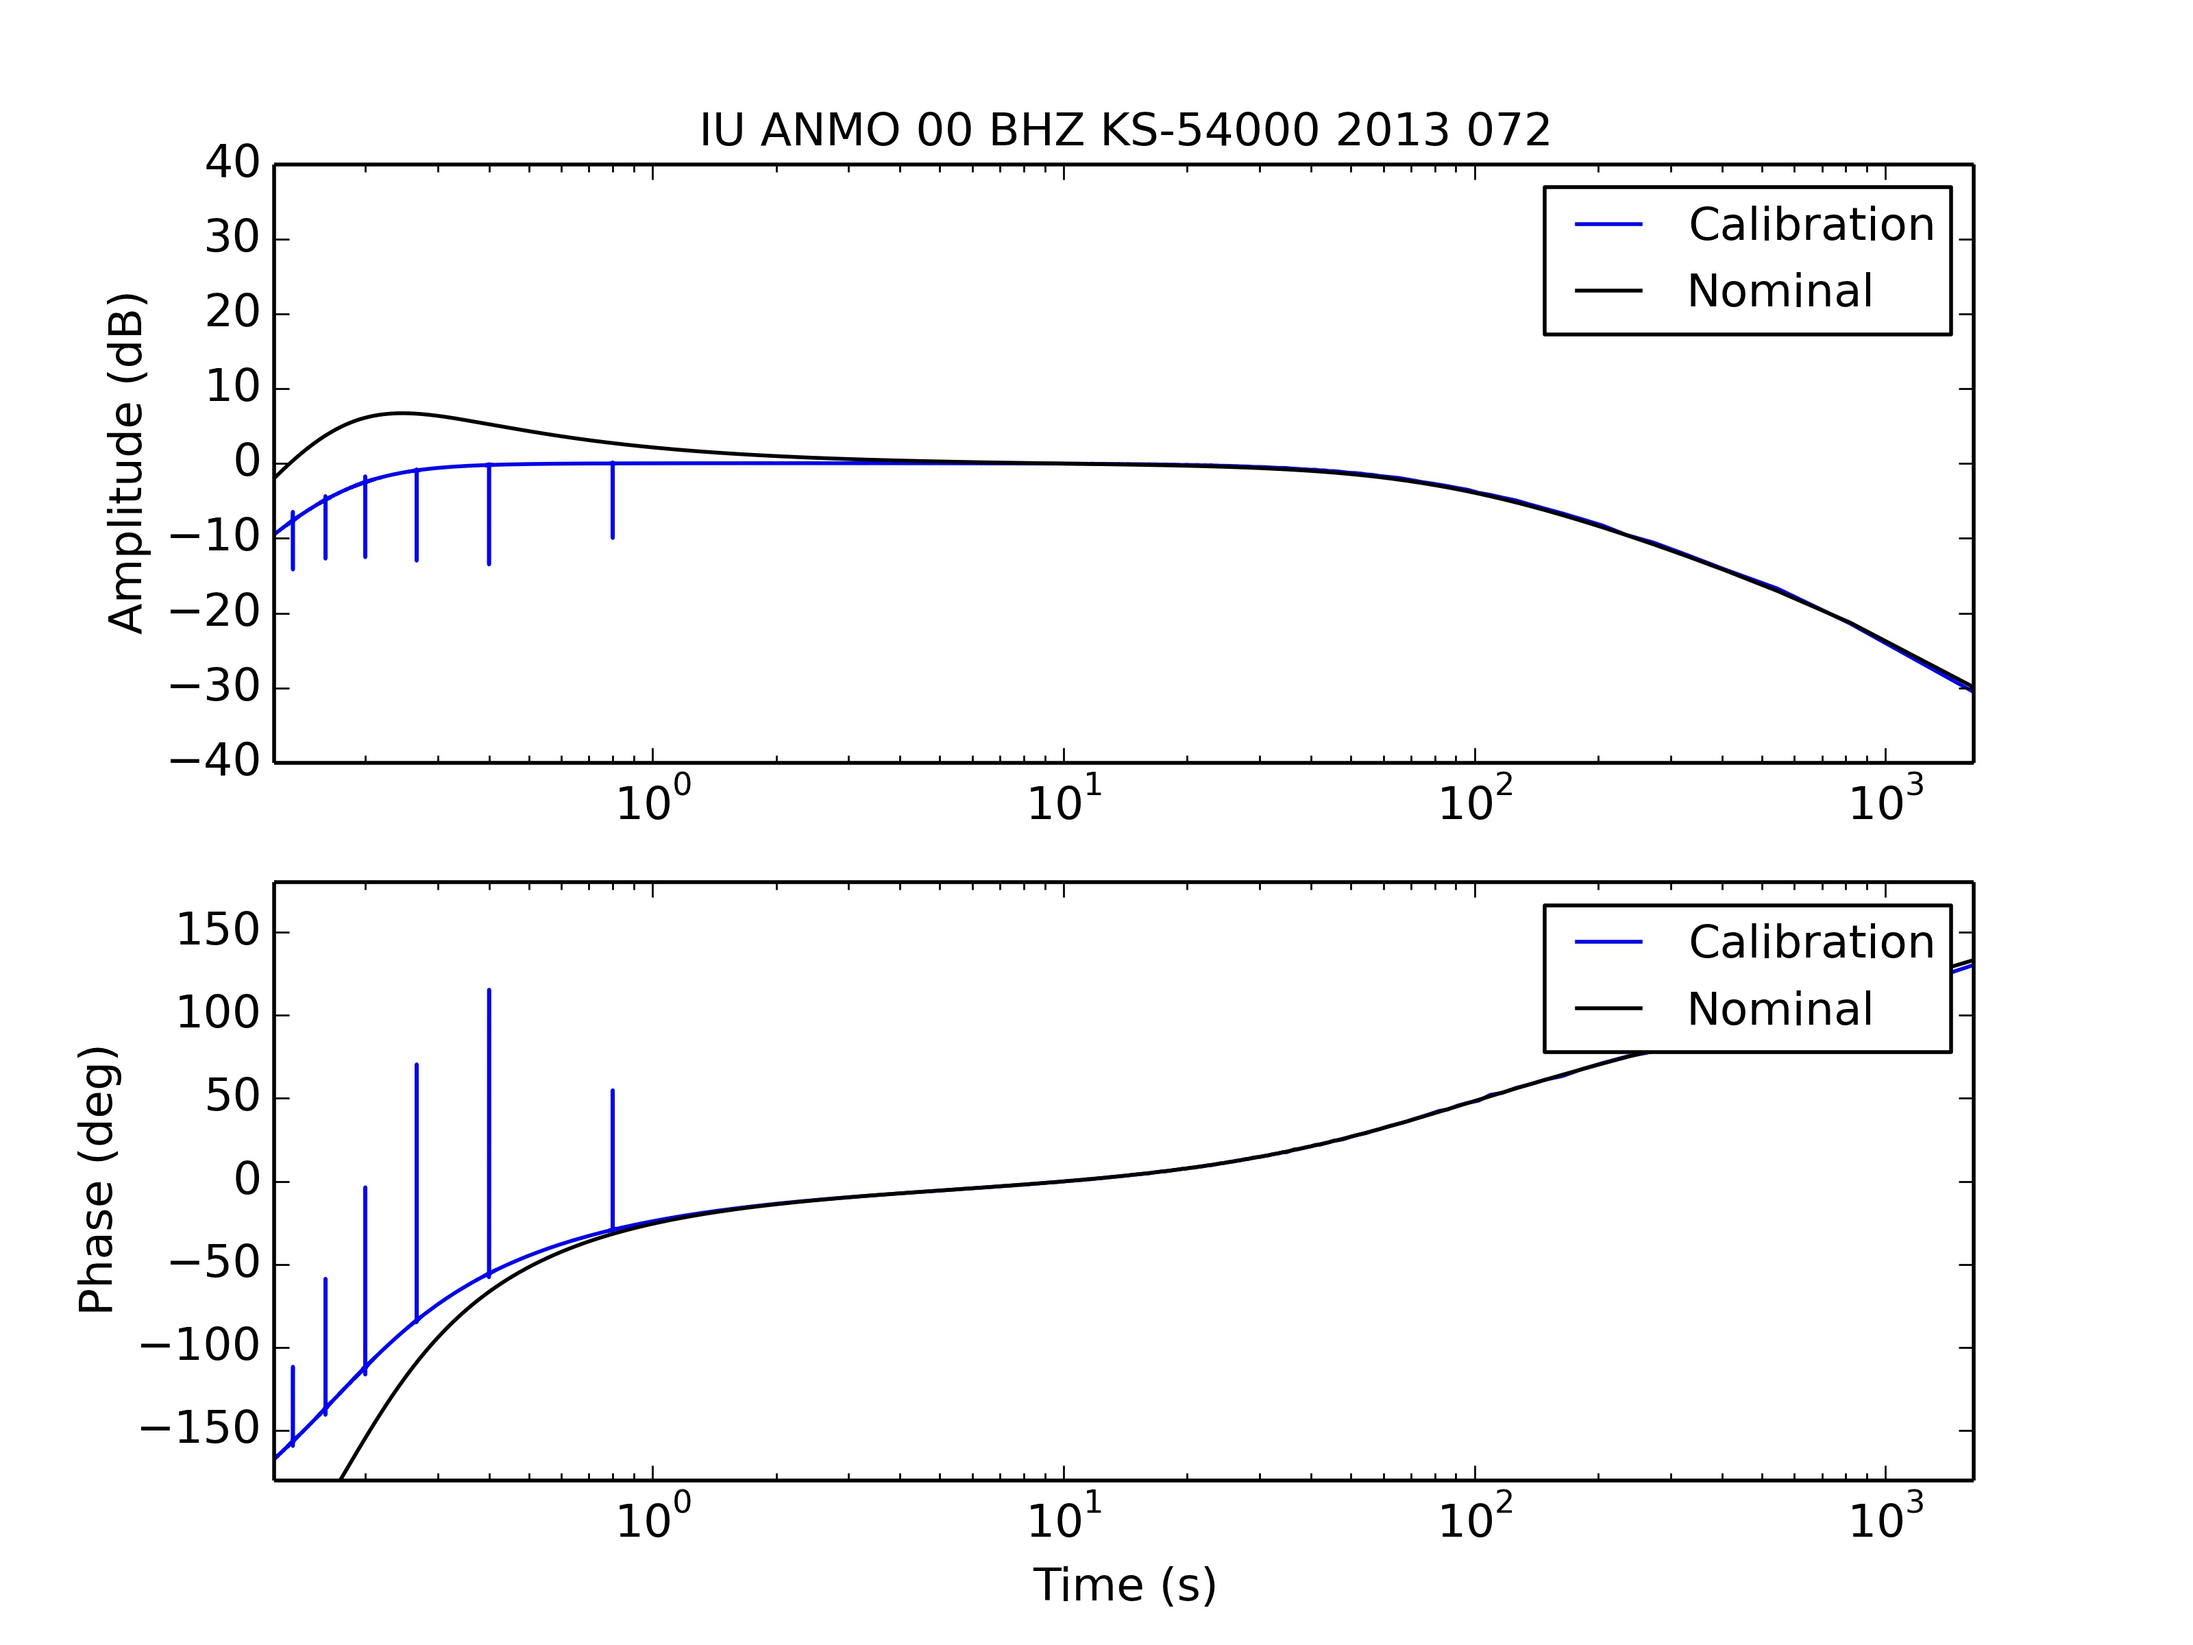
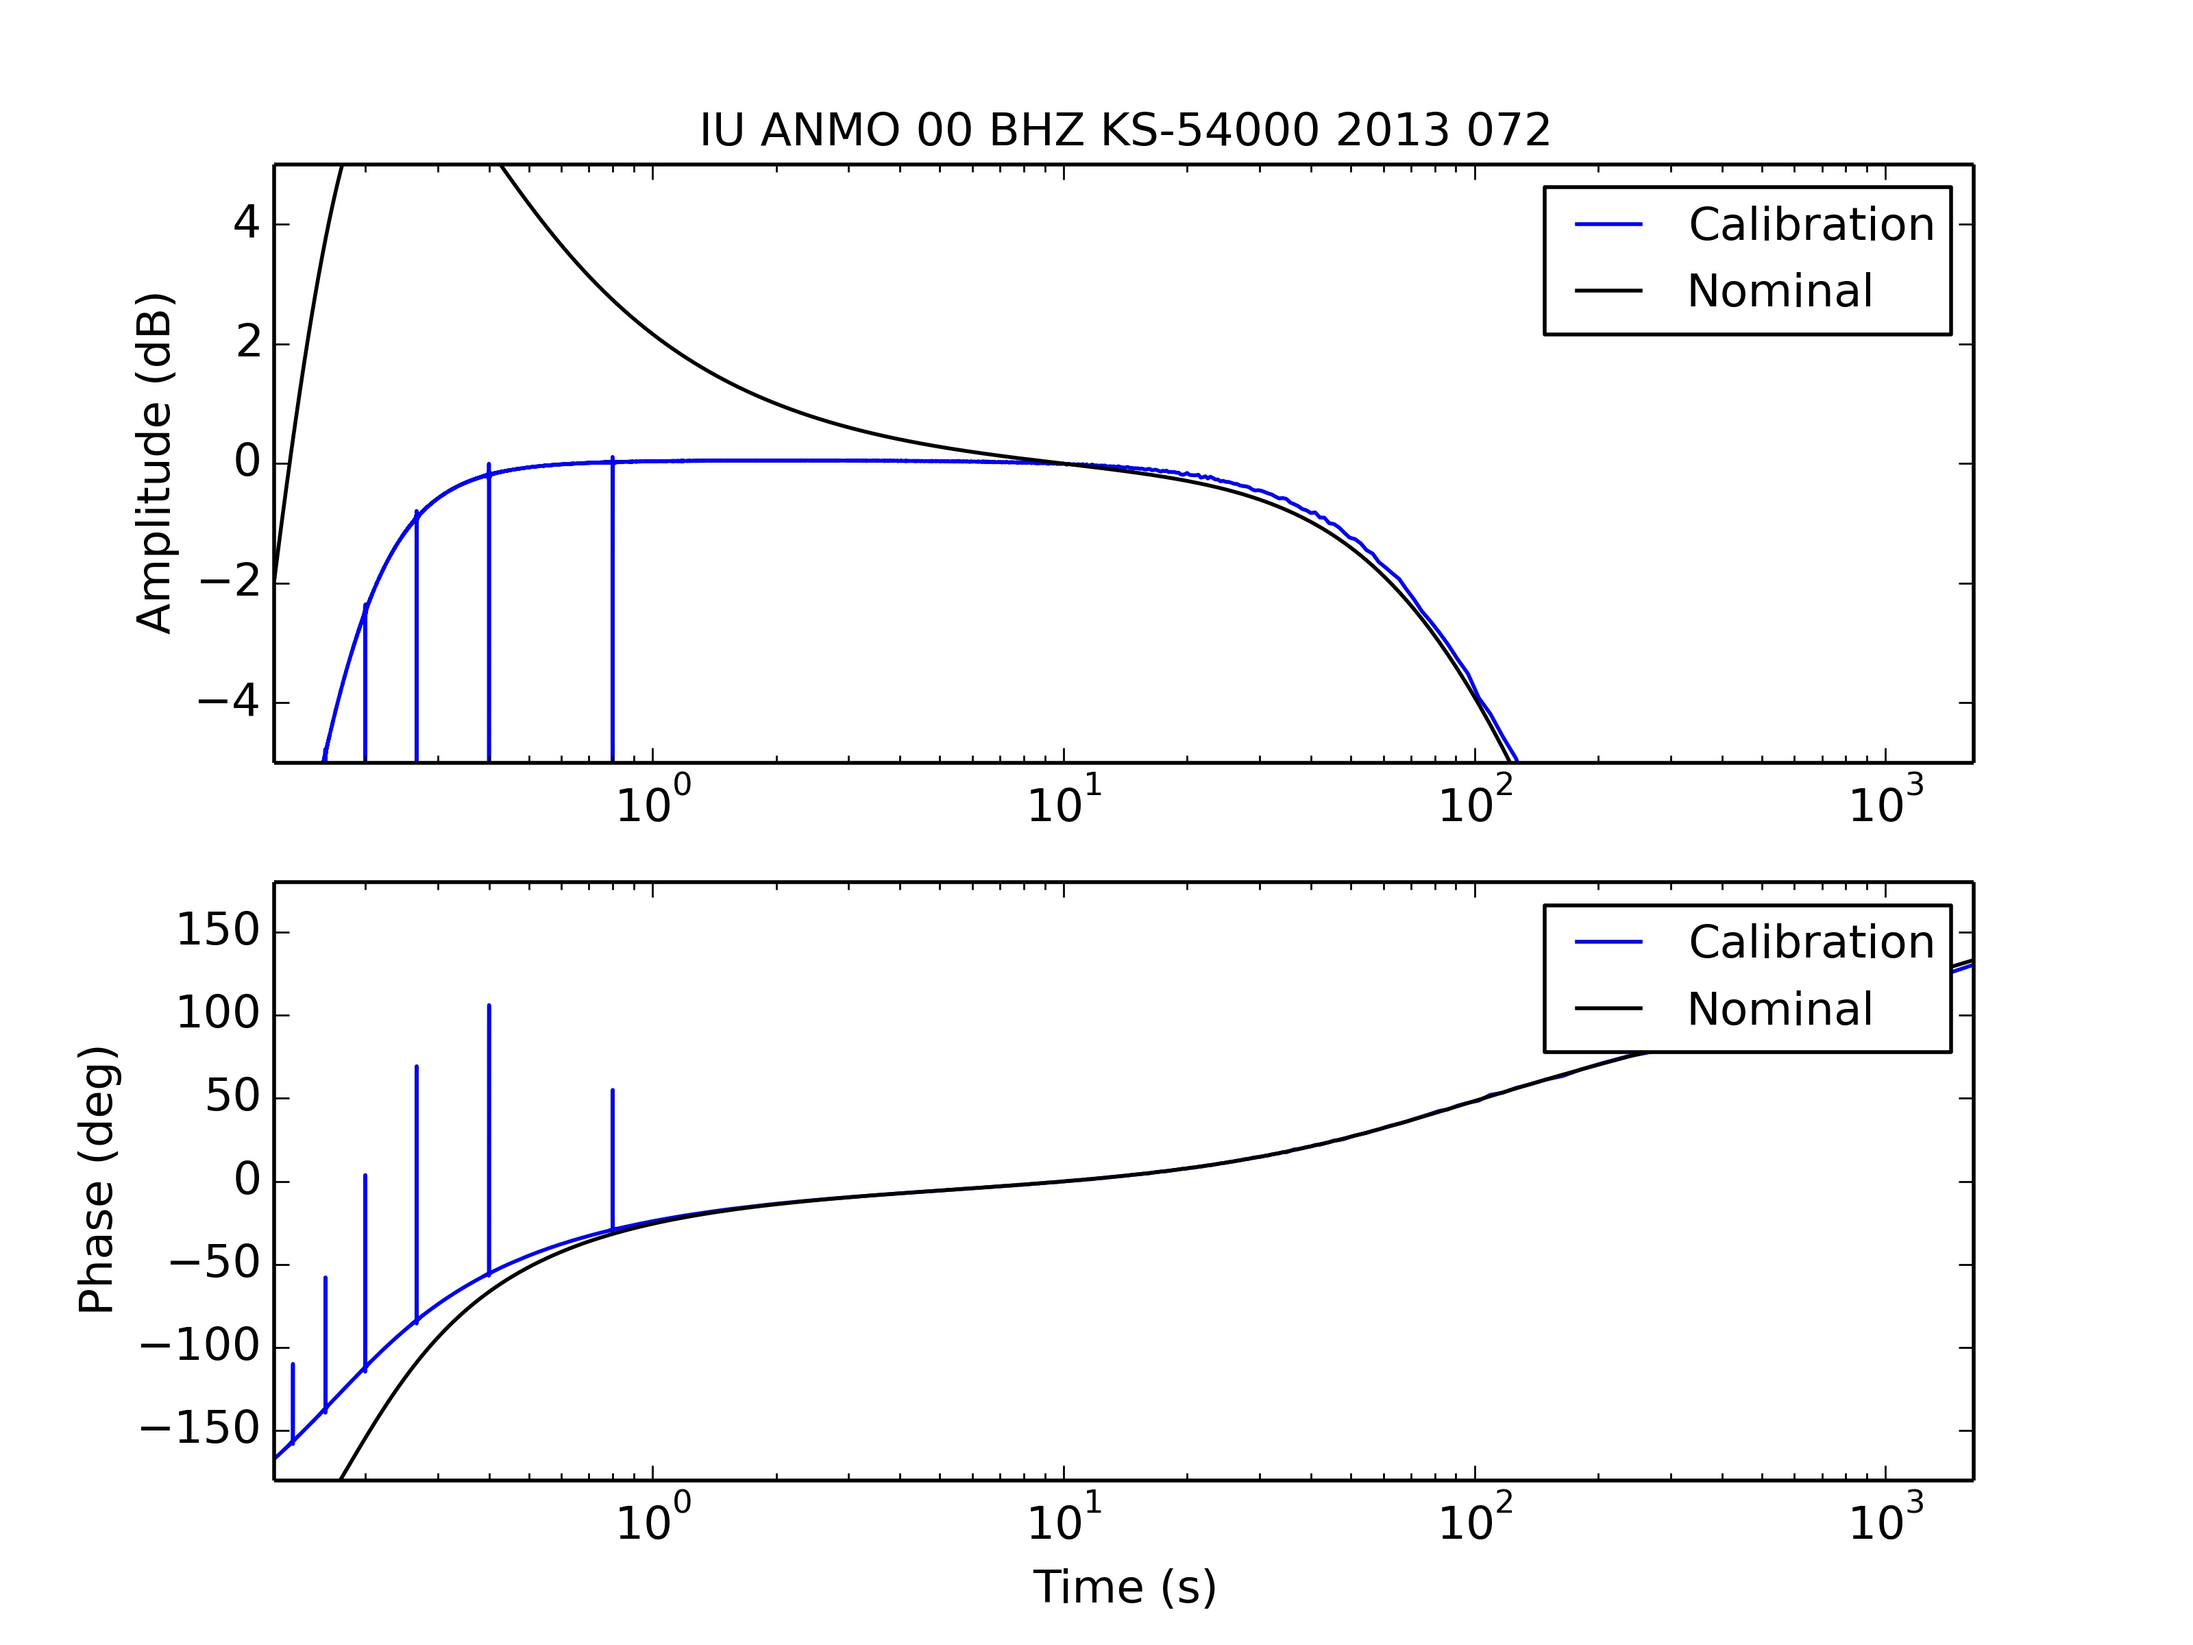
I added calibration blockette detection

diff --git a/randcal/calcomp.py b/randcal/calcomp.py
@@ -3,7 +3,9 @@
 import argparse
 import sys
 import math
-
+import struct
+import os
+import stat
 
 import numpy
 import matplotlib.mlab
@@ -61,14 +63,60 @@ def getcmdline():
 		default = False, help="Allows for a capacitive calibration")
 
 	parser.add_argument('-st','--starttime',type = str, action = "store", dest = "stime", \
-		default = '', help="Start time of calibration: YYYY-MM-DDTHH:MM:SS.S", required = True)
+		default = '', help="Start time of calibration: YYYY-MM-DDTHH:MM:SS.S", required = False)
 
 	parser.add_argument('-d','--duration', type = int, action = "store", dest = "duration", \
-		default = 0, help="Duration of cal in seconds", required = True)
+		default = 0, help="Duration of cal in seconds", required = False)
+
+	parser.add_argument('-cb',action = "store_true",dest = "calblock", \
+		default = False, help="Use calibration blockette time")
 
 	parserval = parser.parse_args()
 
 	return parserval
+
+def get_calibrations(file_name):
+	calibrations = []
+
+	#Read the first file and get the record length from blockette 1000
+	fh = open(file_name, 'rb')
+	record = fh.read(256)
+	index = struct.unpack('>H', record[46:48])[0]
+	file_stats = os.stat(file_name)
+	record_length = 2 ** struct.unpack('>B', record[index+6:index+7])[0]
+	
+	#Get the total number of records
+	total_records = file_stats[stat.ST_SIZE] / record_length
+	
+	#Now loop through the records and look for calibration blockettes
+	for rec_idx in xrange(0,total_records):
+		fh.seek(rec_idx * record_length,0)
+		record = fh.read(record_length)
+		next_blockette = struct.unpack('>H', record[46:48])[0]
+		while next_blockette != 0:
+			index = next_blockette
+			blockette_type, next_blockette = struct.unpack('>HH', record[index:index+4])	
+			if blockette_type in (300, 310, 320, 390):
+				if debug:
+					print 'We have a calibration blockette'
+				year,jday,hour,minute,sec,_,tmsec,_,cal_flags,duration = tuple(struct.unpack('>HHBBBBHBBL', record[index+4:index+20]))
+				stime = UTCDateTime(year=year,julday=jday,hour=hour,minute=minute,second=sec)
+				if debug:
+					print(stime.ctime())
+				if blockette_type == 300:
+					step_count,_,_,ntrvl_duration,amplitude,cal_input = struct.unpack('>BBLLf3s', record[index+14:index+31])
+					calibrations.append({'type':'step','amplitude': amplitude,'number':step_count,'start_time':stime,'duration':duration/10000,'inteveral_duration':ntrvl_duration})
+				if blockette_type == 310:
+					signal_period,amplitude,cal_input = struct.unpack('>ff3s', record[index+20:index+31])
+					calibrations.append({'type':'sine','amplitude': amplitude, 'period': signal_period,'start_time':stime,'duration':duration/10000})
+				if blockette_type in (320, 390):
+					amplitude,cal_input = struct.unpack('>f3s', record[index+20:index+27])
+					calibrations.append({'type':'random','amplitude': amplitude,'start_time':stime,'duration':duration/10000})
+	fh.close()
+	return calibrations
+
+
+
 
 def getdata(dataloc,starttime,endtime):
 #A function to read in the data and trim it down
@@ -201,84 +249,101 @@ def respToFAP(resp,norm):
 
 #Here is where we start the program
 
-#Run the command line parser
-parserval = getcmdline()
+if __name__ == "__main__":
 
-#User input variables
-debug = parserval.debug
+	#Run the command line parser
+	parserval = getcmdline()
 
-#Here are the start and end times
-stime = UTCDateTime(parserval.stime)
-etime = stime + parserval.duration
+	#User input variables
+	debug = parserval.debug
+	
+	if parserval.calblock:
+		calibrations = get_calibrations(parserval.outputData)
+		found_cal = False
+		for cals in calibrations:
+			if cals['type'] == 'random':
+				stime = cals['start_time']
+				etime = stime + cals['duration']
+				found_cal = True
+		if not found_cal:
+			print 'Unable to find calibration blockette'
+			sys.exit()
+	else:	
+	#Here are the start and end times
+		try:
+			stime = UTCDateTime(parserval.stime)
+			etime = stime + parserval.duration
+		except:
+			print 'Unable to get start time'
+			sys.exit()
 
+	#Read in the data
+	tracein = getdata(parserval.inputData,stime,etime)
+	traceout = getdata(parserval.outputData,stime,etime)
 
-#Read in the data
-tracein = getdata(parserval.inputData,stime,etime)
-traceout = getdata(parserval.outputData,stime,etime)
-
-#Lets compute the power spectra
-pinpout, fre = getcpow(tracein,traceout)
-pout, fre = getcpow(traceout, traceout)
-pin, fre = getcpow(tracein, tracein)
-
-
-period = 1/fre
-#Lets find the normalization index
-indexNormPeriod = numpy.argmin(numpy.abs(period - parserval.normPeriod))
-
-#Check if the cal is resistive or not
-respCal, phaseCal = getCalResp(fre,pin,pout,pinpout,parserval.capCal,indexNormPeriod)
-
-if parserval.respFile:
-	respMetaData,phaseMetaData = getMetaDataResp(parserval.respFile,tracein.stats.delta,nfft,indexNormPeriod)
-
-
-#Get the response of the sensor
-if parserval.sensorType:
-	sensorType = parserval.sensorType
-	if debug:
-		print 'We are using a sensor of type: ' + sensorType
-	pazresp = getpaz(sensorType)
-
-#Now lets convert this to a FAP listing
-	tfresp = getRespFromModel(pazresp,nfft,tracein.stats.delta,indexNormPeriod)
-	tfamp,tfPhase = respToFAP(tfresp,indexNormPeriod)
+	#Lets compute the power spectra
+	pinpout, fre = getcpow(tracein,traceout)
+	pout, fre = getcpow(traceout, traceout)
+	pin, fre = getcpow(tracein, tracein)
 
 
-else:
-	if debug:
-		print 'No sensor type found'
-	sensorType = ''
+	period = 1/fre
+	#Lets find the normalization index
+	indexNormPeriod = numpy.argmin(numpy.abs(period - parserval.normPeriod))
+
+	#Check if the cal is resistive or not
+	respCal, phaseCal = getCalResp(fre,pin,pout,pinpout,parserval.capCal,indexNormPeriod)
+
+	if parserval.respFile:
+		respMetaData,phaseMetaData = getMetaDataResp(parserval.respFile,tracein.stats.delta,nfft,indexNormPeriod)
 
 
-#Create a string for the title
-titleString = traceout.stats.network + ' ' + traceout.stats.station + ' ' + \
-	traceout.stats.location + ' ' + traceout.stats.channel + ' ' + \
-	sensorType + ' ' + str(stime.year) + ' ' + str(stime.julday).zfill(3)
+	#Get the response of the sensor
+	if parserval.sensorType:
+		sensorType = parserval.sensorType
+		if debug:
+			print 'We are using a sensor of type: ' + sensorType
+		pazresp = getpaz(sensorType)
 
-#Plot the results
-plt.figure()
-plt.subplot(211)
-plt.title(titleString,fontsize=12)
-p1=plt.semilogx(period,respCal,'b',label='Calibration')
-if parserval.sensorType:
-	p2=plt.semilogx(period,tfamp,'k',label='Nominal')
-plt.xlim(1.2*min(period),max(period))
-plt.ylim(-5,5)
-plt.ylabel('Amplitude (dB)')
-plt.legend(prop={'size':12})
-plt.subplot(212)
-p2=plt.semilogx(period,phaseCal,'b',label='Calibration')
-if parserval.sensorType:
-	p3=plt.semilogx(period,tfPhase,'k',label='Nominal')
-plt.xlim(1.2*min(period),max(period))
-plt.ylim(-180,180)
-plt.xlabel('Time (s)')
-plt.ylabel('Phase (deg)')
-plt.legend(prop={'size':12})
-plt.savefig(traceout.stats.network + traceout.stats.station + traceout.stats.location + \
-	traceout.stats.channel + str(stime.year) + str(stime.julday).zfill(3) +  \
-	'.jpg', format = 'jpeg', dpi=400)
+	#Now lets convert this to a FAP listing
+		tfresp = getRespFromModel(pazresp,nfft,tracein.stats.delta,indexNormPeriod)
+		tfamp,tfPhase = respToFAP(tfresp,indexNormPeriod)
+
+
+	else:
+		if debug:
+			print 'No sensor type found'
+		sensorType = ''
+
+
+	#Create a string for the title
+	titleString = traceout.stats.network + ' ' + traceout.stats.station + ' ' + \
+		traceout.stats.location + ' ' + traceout.stats.channel + ' ' + \
+		sensorType + ' ' + str(stime.year) + ' ' + str(stime.julday).zfill(3)
+
+	#Plot the results
+	plt.figure()
+	plt.subplot(211)
+	plt.title(titleString,fontsize=12)
+	p1=plt.semilogx(period,respCal,'b',label='Calibration')
+	if parserval.sensorType:
+		p2=plt.semilogx(period,tfamp,'k',label='Nominal')
+	plt.xlim(1.2*min(period),max(period))
+	plt.ylim(-5,5)
+	plt.ylabel('Amplitude (dB)')
+	plt.legend(prop={'size':12})
+	plt.subplot(212)
+	p2=plt.semilogx(period,phaseCal,'b',label='Calibration')
+	if parserval.sensorType:
+		p3=plt.semilogx(period,tfPhase,'k',label='Nominal')
+	plt.xlim(1.2*min(period),max(period))
+	plt.ylim(-180,180)
+	plt.xlabel('Time (s)')
+	plt.ylabel('Phase (deg)')
+	plt.legend(prop={'size':12})
+	plt.savefig(traceout.stats.network + traceout.stats.station + traceout.stats.location + \
+		traceout.stats.channel + str(stime.year) + str(stime.julday).zfill(3) +  \
+		'.jpg', format = 'jpeg', dpi=400)
 
 
 
